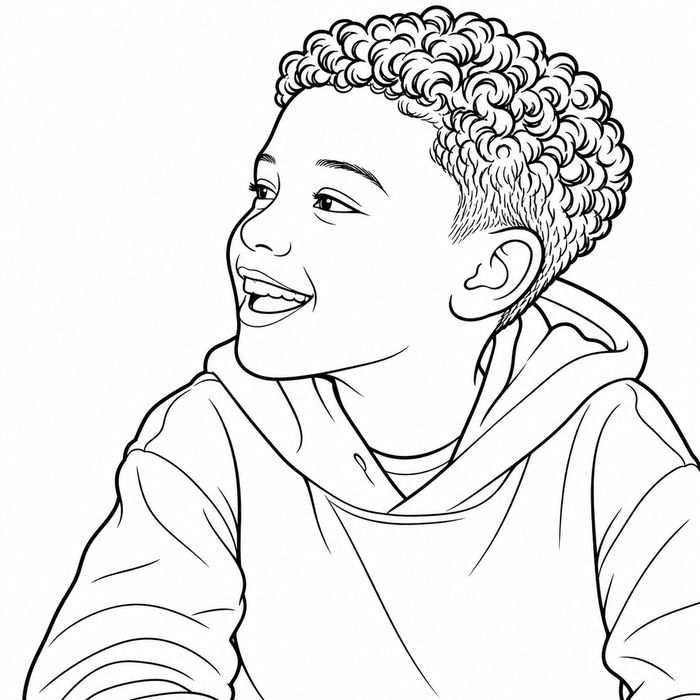
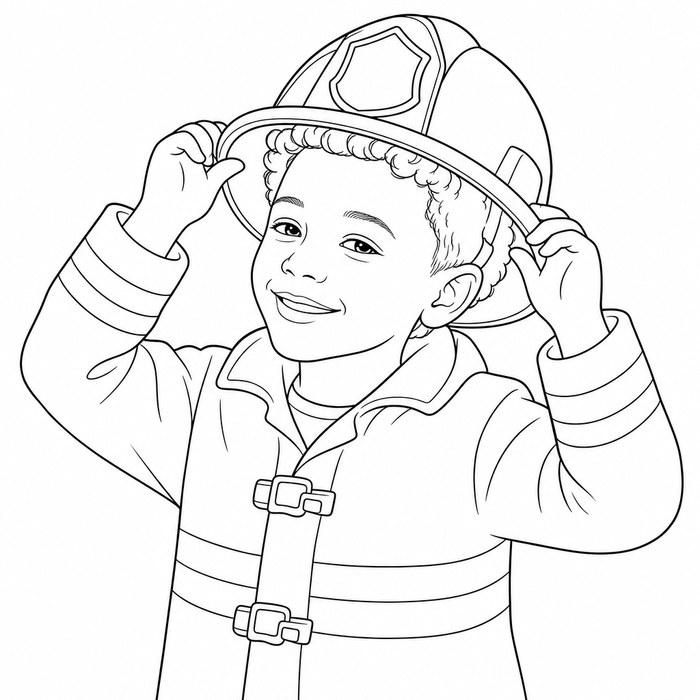
Owen and Malik samples: Adventure scene and Firefighter
The two boys both showed a plain portrait, so four sample pairs sold two
themes between them. They now show four.

Nothing was drawn for this. Both pages already existed - Owen's explorer
page in public/samples, Malik's firefighter page among the original
renders - so this cost nothing at OpenAI.

Malik comes from the 1024px original, which was already in full turnout
gear: the helmet reads as a helmet whatever the prompt said about
wardrobe, so his page needed no redraw after the costume change.

Owen comes from the 300px page instead of the 1024px one, and that is
deliberate. The 1024 render predates THEME_OUTFITS and has him standing
in a jungle in the t-shirt he was photographed in - the exact thing that
change existed to stop. The 300px page is the redraw, in the safari hat
and two-pocket shirt, and it is the only one that shows what a customer
would get today.

Resolution is not a trade here: these images display at 144px wide, 126px
on a phone, so 300px covers a 2x screen with room to spare. The existing
700x700 files were already five times larger than anything needed one.
Both are written at 700x700 so the width and height attributes in the
markup stay true.

Captions and alt text now describe the pages: an explorer in a jungle
clearing holding a treasure map, and a firefighter in a turnout coat
lifting a helmet onto his head.

diff --git a/index.html b/index.html
@@ -642,17 +642,17 @@ fbq('track', 'PageView');
         <div class="sample-pair">
           <img src="samples/examples/owen-photo.jpg" width="700" height="700" loading="lazy" alt="Photo of a smiling boy in a blue shirt">
           <span class="sample-arrow" aria-hidden="true">&rarr;</span>
-          <img src="samples/examples/owen-page.jpg" width="700" height="700" loading="lazy" alt="The same boy drawn as a coloring-page portrait">
+          <img src="samples/examples/owen-page.jpg" width="700" height="700" loading="lazy" alt="The same boy drawn as an explorer in a jungle clearing, holding a treasure map">
         </div>
-        <figcaption>Simple portrait</figcaption>
+        <figcaption>Adventure scene</figcaption>
       </figure>
       <figure class="sample">
         <div class="sample-pair">
           <img src="samples/examples/malik-photo.jpg" width="700" height="700" loading="lazy" alt="Photo of a boy in a green hoodie looking to the side">
           <span class="sample-arrow" aria-hidden="true">&rarr;</span>
-          <img src="samples/examples/malik-page.jpg" width="700" height="700" loading="lazy" alt="The same boy drawn as a coloring-page portrait from the side">
+          <img src="samples/examples/malik-page.jpg" width="700" height="700" loading="lazy" alt="The same boy drawn as a firefighter in a turnout coat, lifting a helmet onto his head">
         </div>
-        <figcaption>Simple portrait, side view</figcaption>
+        <figcaption>Firefighter</figcaption>
       </figure>
     </div>
     <p class="sample-note">
